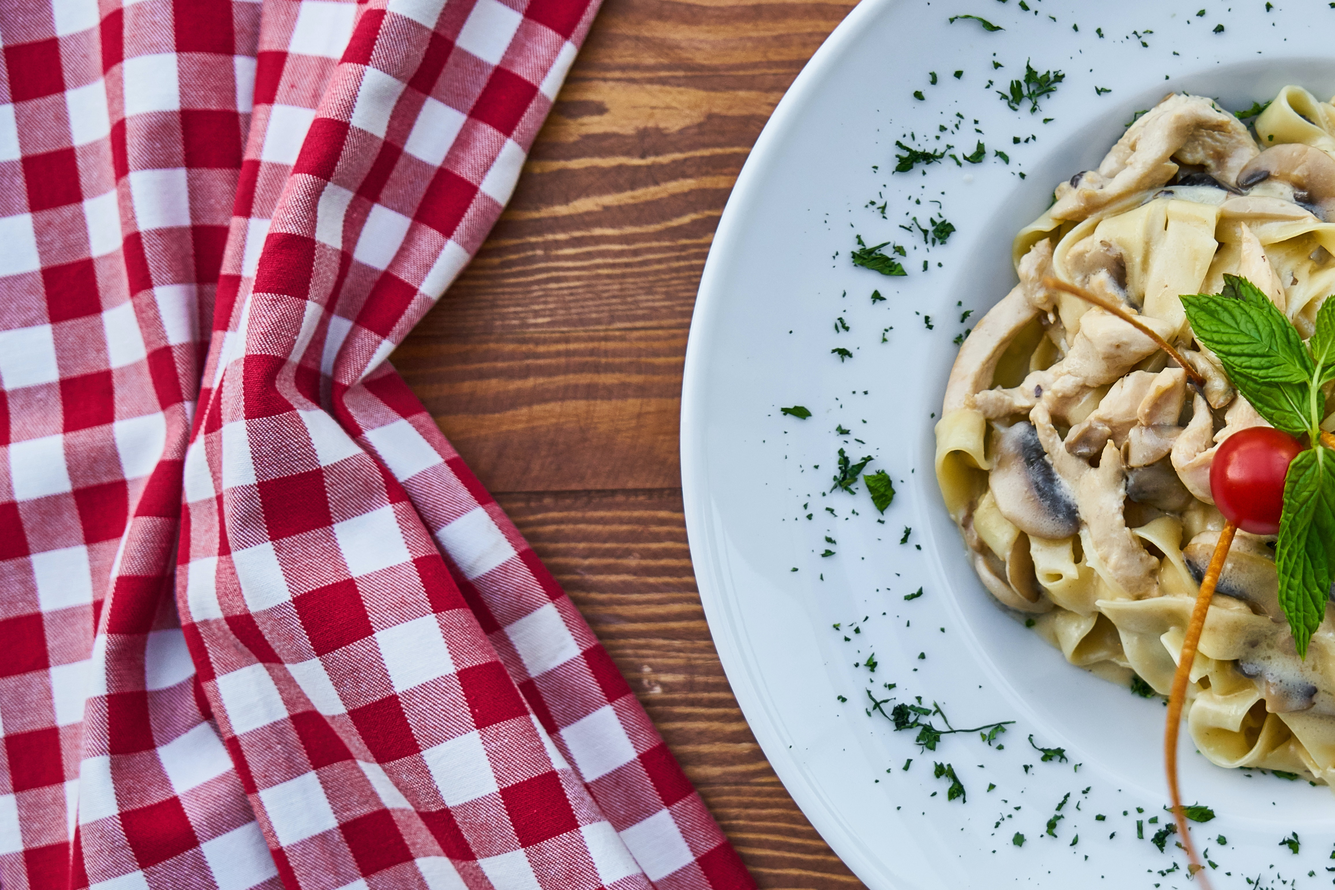
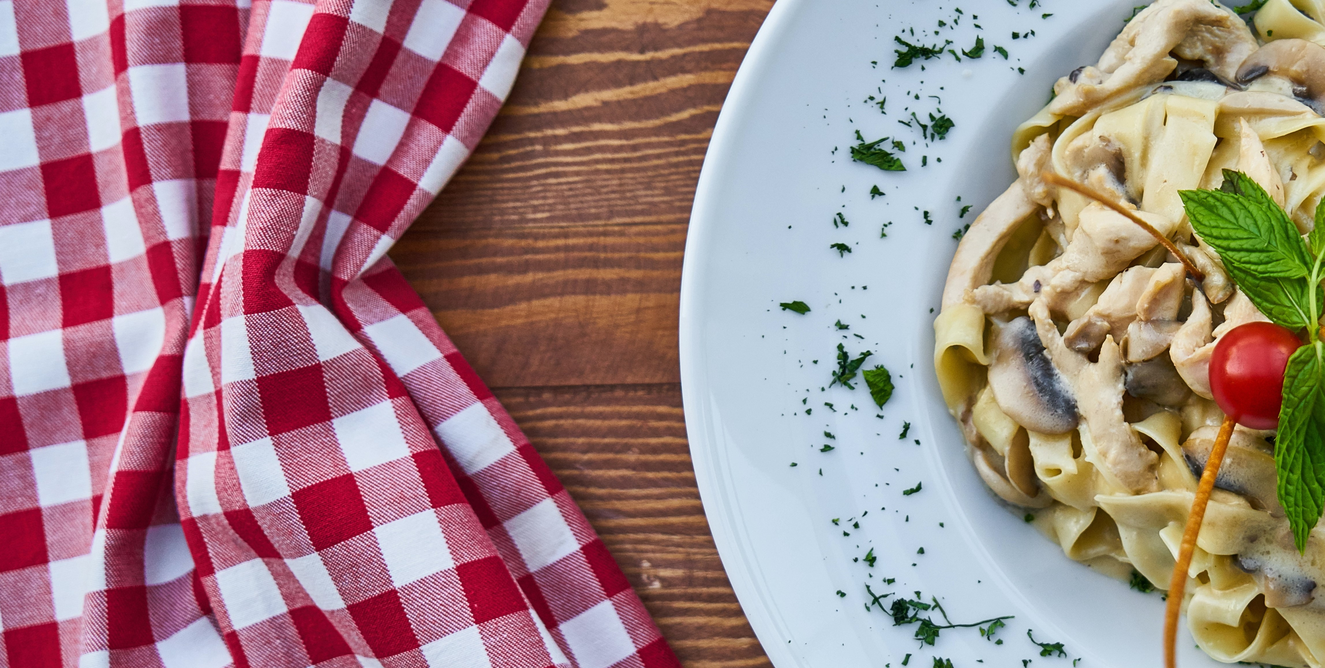
landing page UI

diff --git a/client/app.js b/client/app.js
@@ -2,12 +2,14 @@
 $(document).ready(function(){
 
     var home = `<div>
-    <div class="container-fluid row p-4" id="titolo">
+    <nav class="navbar navbar-dark bg-primary">
+    <div class="container-fluid row p-2" id="titolo">
     <h3 class="col-3">Sublime Restaurant</h3>
     <span class="col-6"></span>
-    <button type="button" class="col-1 btn btn-warning m-2 btn-sm" id="login">LOGIN</button>
-    <button type="button" class="col-1 btn btn-dark m-2 btn-sm" id="reg">Registrati</button>
+    <button type="button" class="col-1 btn btn-danger m-2 btn-sm" id="login">LOGIN</button>
+    <button type="button" class="col-1 btn btn-dark m-2 btn-sm" id="reg">SIGN IN</button>
     </div>
+    </nav>
 
     <!--CAROSELLO-->
     <div id="carouselExampleIndicators" class="carousel slide" data-bs-ride="carousel">
@@ -21,13 +23,13 @@ $(document).ready(function(){
             </div>
             <div class="carousel-inner">
                 <div class="carousel-item active">
-                    <img src="./img/food.jpg" class="d-block w-100" alt="">
+                    <img src="./img/food.png" class="d-block w-100" height="700" alt="">
                 </div>
                 <div class="carousel-item">
-                    <img src="./img/food2.jpg" class="d-block w-100" alt="">
+                    <img src="./img/food2.jpg" class="d-block w-100" height="700" alt="">
                 </div>
                 <div class="carousel-item">
-                    <img src="./img/food3.jpg" class="d-block w-100" alt="">
+                    <img src="./img/food3.jpg" class="d-block w-100" height="700" alt="">
                 </div>
             </div>
             <button class="carousel-control-prev" type="button" data-bs-target="#carouselExampleIndicators"
@@ -43,7 +45,11 @@ $(document).ready(function(){
         </div>
 
     <div class="container-fluid row">
-    <p>Sublime Restaurant is a cozy restaurant created by a husband and wife who wanted to build an eating establishment where everyone feels welcome and comfortable. Sublime Restaurant's website exhibits the restaurant's select food and drinks to give a glimpse at the distinguished, yet down - to - earth menu Sublime Restaurant serves its consumers.</p></div></div>`;
+    <div class="col-2"></div>
+    <p class="col-8 text-center pt-4 pb-4">Sublime Restaurant is a cozy restaurant created by a husband and wife who wanted to build an eating establishment where everyone feels welcome and comfortable. Sublime Restaurant's website exhibits the restaurant's select food and drinks to give a glimpse at the distinguished, yet down - to - earth menu Sublime Restaurant serves its consumers.</p>
+    <div class="col-2"></div>
+    </div>
+    </div>`;
 
     //home
     $("#app").html(home);

diff --git a/client/index.html b/client/index.html
@@ -4,7 +4,7 @@
         <title>RISTORANTE</title>
         <meta name="viewport" content="width=device-width, initial-scale=1"/>
         <meta name="description" content="Progetto d'esame"/>
-        <meta name="author" content="Sara"/>
+        <meta name="author" content="Sara&Isabella"/>
         <!--JQuery CDN-->
         <script src="https://ajax.googleapis.com/ajax/libs/jquery/3.5.1/jquery.min.js"></script>
         <!--Boostrap CSS CDN-->
@@ -13,6 +13,10 @@
         <script src="https://cdn.jsdelivr.net/npm/bootstrap@5.1.3/dist/js/bootstrap.min.js"></script>
         <!-- Bootstrap Javascript Bundle CDN-->
         <script src="https://cdn.jsdelivr.net/npm/bootstrap@5.1.3/dist/js/bootstrap.bundle.min.js"></script>
+        <!--google fonts-->
+        <link rel="preconnect" href="https://fonts.googleapis.com">
+        <link rel="preconnect" href="https://fonts.gstatic.com" crossorigin>
+        <link href="https://fonts.googleapis.com/css2?family=Sedgwick+Ave&display=swap" rel="stylesheet">
         
         <link rel="stylesheet" href="./stile/style.css">
     </head>

diff --git a/client/login.js b/client/login.js
@@ -9,7 +9,7 @@ $(document).ready(function(){
     </form>
     
     <div class="container-fluid row">
-    <a href="./index.html" class="badge bg-info text-dark">Torna alla home</a></div>
+    <a href="./index.html" class="badge bg-info text-dark">Home</a></div>
     </div>`;
 
     //evento click bottone
@@ -17,7 +17,7 @@ $(document).ready(function(){
         $("#app").html(log);
     });
 
-    $(document).on("click", "#invia", function(){
+    $(document).on("submit", function(){
 
         var dati = {
             user: $("#nome").val(),

diff --git a/client/stile/style.css b/client/stile/style.css
@@ -1,9 +1,18 @@
+@import url('https://fonts.googleapis.com/css2?family=Playfair+Display:wght@400;600&display=swap');
+
 body {
     background-color:lightskyblue;
+    font-family: 'Playfair Display', serif;
+    font-size: 25px;
+}
+
+h3 {
+    font-family: 'Sedgwick Ave', cursive;
+    font-size: 40px;
 }
 
 #carouselExampleIndicators {
-    width: 50%;
+    width: 100%;
     margin: auto;
 }
 
@@ -11,4 +20,8 @@ body {
     width: 7rem;
     padding: 10px;
     margin: 15px;
+}
+
+.btn {
+    font-weight: bold;
 }

diff --git a/client/registrazione.js b/client/registrazione.js
@@ -10,7 +10,7 @@ $(document).ready(function () {
     </form>
     
     <div class="container-fluid row">
-    <a href="./index.html" class="badge bg-info text-dark">Torna alla home</a></div>
+    <a href="./index.html" class="badge bg-info text-dark">Home</a></div>
     </div>`;
 
     //evento click bottone

diff --git a/server/api/login.php b/server/api/login.php
@@ -7,6 +7,8 @@ $db = $database->connessione();
 //metodo per ottenere le variabili di login (POST)
 $datilogin = json_decode(file_get_contents("php://input"));
 
+//TO DO sanificare i dati!!!!!!!!!!!!1
+
 //risultato query
 $rq = $db->query("SELECT * FROM utenti WHERE Nome = '" . $datilogin->user ."'");
 $conta = $rq->rowCount();
